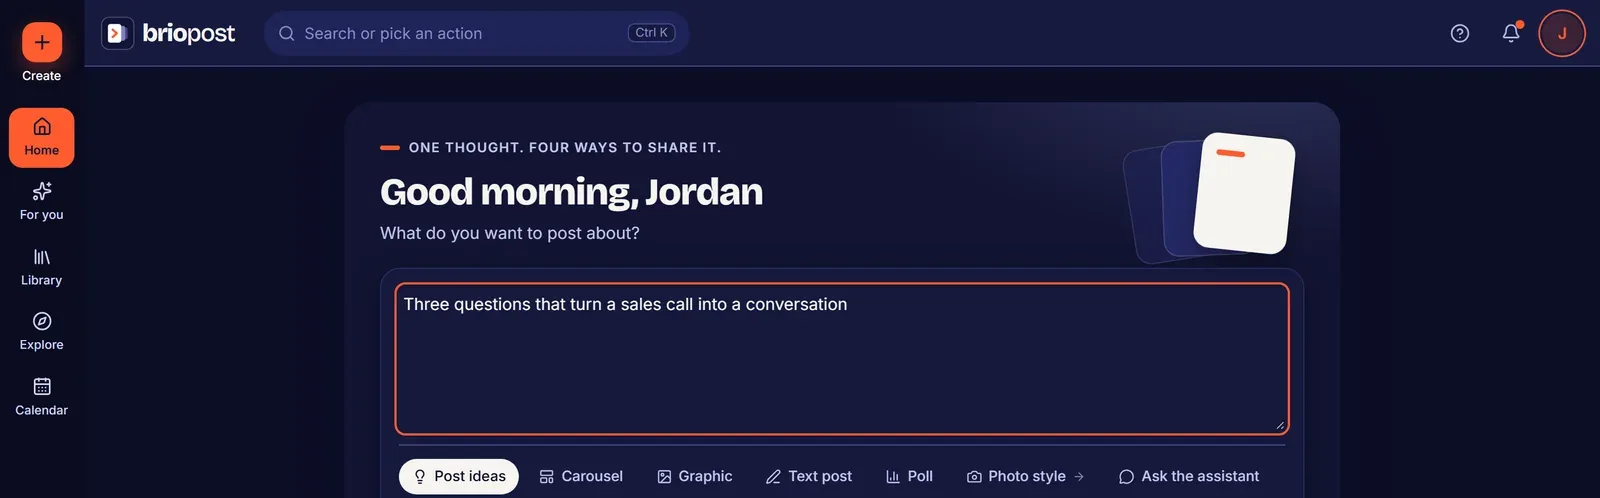
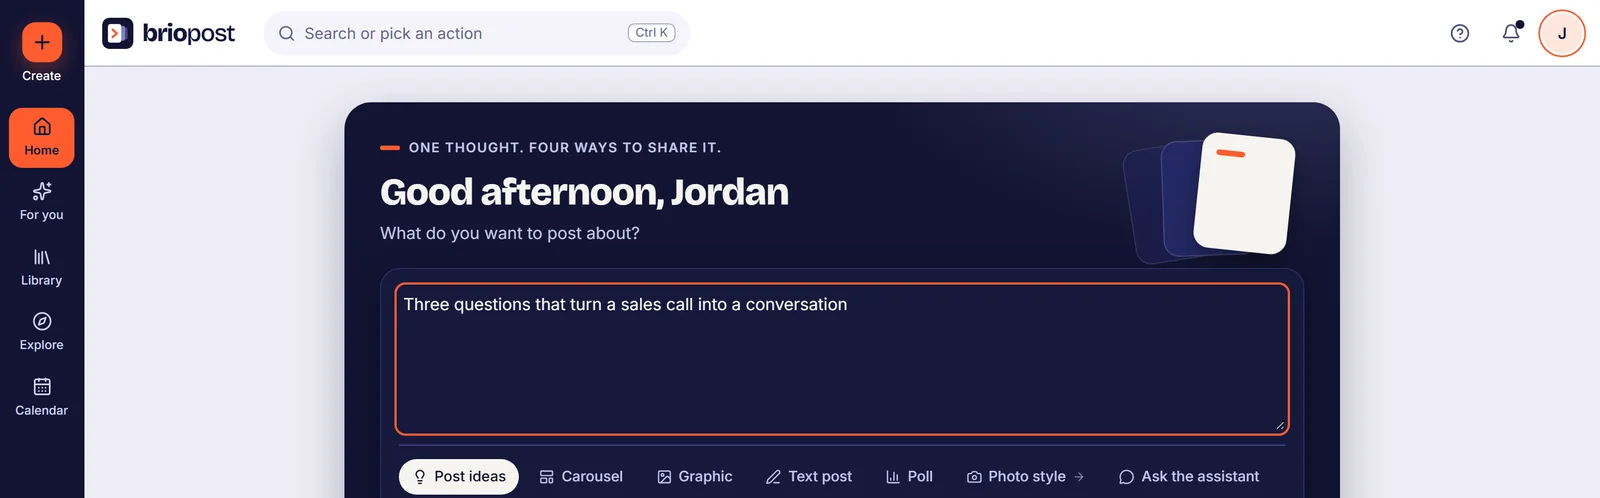
About: made by VocariAI; light studio screenshots; tighter waitlist box; visit counter; legal updates (#9)
* About: made by VocariAI; tighter waitlist box; own visit counter; legal pages updated

* Studio screenshots in the app's light look

---------

diff --git a/privacy/index.html b/privacy/index.html
@@ -1,7 +1,7 @@
-<!doctype html><html lang="en"><head><meta charset="utf-8"><meta name="viewport" content="width=device-width,initial-scale=1"><title>Privacy Policy — Briopost</title><meta name="description" content="How Briopost handles personal information."><link rel="canonical" href="https://briopost.com/privacy/"><meta name="theme-color" content="#121433"><link rel="icon" href="../assets/briopost-icon.svg"><link rel="apple-touch-icon" href="../assets/apple-touch-icon.png"><link rel="stylesheet" href="../assets/brand-tokens.css"><link rel="stylesheet" href="../assets/style.css"></head><body><a class="skip" href="#main">Skip to content</a><header class="header wrap"><a class="brand" href="../" aria-label="Briopost home"><img src="../assets/briopost-icon.svg" width="42" height="42" alt=""><span class="wordmark">brio<span>post</span></span></a><a class="status" href="../">&larr; Back to home</a></header><main id="main" class="wrap doc"><h1>Privacy Policy</h1><p>Last updated November 9, 2026</p><p><a class="dl" href="../legal/briopost-privacy.pdf">Download as PDF</a></p><p class="status">Briopost is preparing to open to customers. This document describes how Briopost works for customers from the day accounts open, and how this website works today.</p>
+<!doctype html><html lang="en"><head><meta charset="utf-8"><meta name="viewport" content="width=device-width,initial-scale=1"><title>Privacy Policy — Briopost</title><meta name="description" content="How Briopost handles personal information."><link rel="canonical" href="https://briopost.com/privacy/"><meta name="theme-color" content="#121433"><link rel="icon" href="../assets/briopost-icon.svg"><link rel="apple-touch-icon" href="../assets/apple-touch-icon.png"><link rel="stylesheet" href="../assets/brand-tokens.css"><link rel="stylesheet" href="../assets/style.css"><script src="../assets/visit.js" defer></script></head><body><a class="skip" href="#main">Skip to content</a><header class="header wrap"><a class="brand" href="../" aria-label="Briopost home"><img src="../assets/briopost-icon.svg" width="42" height="42" alt=""><span class="wordmark">brio<span>post</span></span></a><a class="status" href="../">&larr; Back to home</a></header><main id="main" class="wrap doc"><h1>Privacy Policy</h1><p>Last updated November 9, 2026</p><p><a class="dl" href="../legal/briopost-privacy.pdf">Download as PDF</a></p><p class="status">Briopost is preparing to open to customers. This document describes how Briopost works for customers from the day accounts open, and how this website works today.</p>
 
 <h2>1. Who we are</h2>
-<p>Briopost is a studio for planning, writing and designing LinkedIn posts: carousels, graphics, text posts and polls. Briopost is operated by Andrew Avery. You can reach us at <a href="mailto:info@briopost.com">info@briopost.com</a>.</p>
+<p>Briopost is a studio for planning, writing and designing LinkedIn posts: carousels, graphics, text posts and polls. Briopost is a product of VocariAI. You can reach us at <a href="mailto:info@briopost.com">info@briopost.com</a>.</p>
 
 <h2>2. What we collect</h2>
 <ul>
@@ -29,7 +29,7 @@
 <h2>7. Who processes information for us</h2>
 <table>
 <tr><th>Provider</th><th>What for</th></tr>
-<tr><td>Cloudflare</td><td>Hosting, database (including the waitlist), file storage, website security, receiving mail sent to Briopost addresses</td></tr>
+<tr><td>Cloudflare</td><td>Hosting, database (including the waitlist and website visit totals), file storage, website security, receiving mail sent to Briopost addresses</td></tr>
 <tr><td>Anthropic</td><td>AI writing and editing you request</td></tr>
 <tr><td>fal.ai</td><td>AI pictures you request</td></tr>
 <tr><td>Pexels</td><td>Searching stock photos, if you use that feature</td></tr>
@@ -41,7 +41,7 @@
 <p>If this list changes in a way that affects your information, we will update this page before the change takes effect.</p>
 
 <h2>8. This website</h2>
-<p>briopost.com has no accounts, no cookies, no analytics and no advertising. It has one form, the waitlist form, which asks for your first name, your email address and, if you choose, what best describes you. When you send it, those details go to Briopost's own database (hosted by Cloudflare); sections 2 and 3 explain what we do with them. The interactive examples run in your browser and send nothing. GitHub Pages hosts the site and may log visitors' IP addresses and request details to deliver and protect it, as described in GitHub's privacy statement.</p>
+<p>briopost.com has no accounts, no cookies and no advertising. It counts its own visits: for each page view we record the page, the website that linked to it (if any), the country the visit came from and the date, kept only as totals. We store no IP address and nothing that identifies you. It has one form, the waitlist form, which asks for your first name, your email address and, if you choose, what best describes you. When you send it, those details go to Briopost's own database (hosted by Cloudflare); sections 2 and 3 explain what we do with them. The interactive examples run in your browser and send nothing. GitHub Pages hosts the site and may log visitors' IP addresses and request details to deliver and protect it, as described in GitHub's privacy statement.</p>
 
 <h2>9. How long we keep it, and deleting it</h2>
 <p>We keep your content and account while your account is open. You can delete any item yourself. To close your account and have your information deleted, write to <a href="mailto:info@briopost.com">info@briopost.com</a> from the address on the account; we will delete it within 30 days, except for records we must keep by law. Backups are overwritten on their normal schedule.</p>

diff --git a/index.html b/index.html
@@ -30,6 +30,7 @@
 <link rel="stylesheet" href="assets/demo.css">
 <script src="assets/preview.js" defer></script>
 <script src="assets/waitlist.js" defer></script>
+<script src="assets/visit.js" defer></script>
 </head>
 <body>
 <a class="skip" href="#main">Skip to content</a>
@@ -91,7 +92,7 @@
   </div>
   <!-- Real app screenshots (assets/shots/). To add one, copy a <figure> line. -->
   <div class="shots">
-    <figure class="shot shot-wide panel"><img src="assets/shots/studio-home-1600.webp" srcset="assets/shots/studio-home-800.webp 800w, assets/shots/studio-home-1600.webp 1600w" sizes="(max-width: 800px) 100vw, 1170px" width="1600" height="498" loading="lazy" decoding="async" alt="The Briopost home screen in the dark Midnight Stage look, with the thought box filled in (top of the screen only): &quot;Three questions that turn a sales call into a conversation&quot;."><figcaption>Start with one thought. Briopost turns it into a carousel, graphic, text post or poll.</figcaption></figure>
+    <figure class="shot shot-wide panel"><img src="assets/shots/studio-home-1600.webp" srcset="assets/shots/studio-home-800.webp 800w, assets/shots/studio-home-1600.webp 1600w" sizes="(max-width: 800px) 100vw, 1170px" width="1600" height="498" loading="lazy" decoding="async" alt="The Briopost home screen in the light look, with the thought box filled in (top of the screen only): &quot;Three questions that turn a sales call into a conversation&quot;."><figcaption>Start with one thought. Briopost turns it into a carousel, graphic, text post or poll.</figcaption></figure>
     <figure class="shot panel"><img src="assets/shots/studio-editor-1600.webp" srcset="assets/shots/studio-editor-800.webp 800w, assets/shots/studio-editor-1600.webp 1600w" sizes="(max-width: 800px) 100vw, 580px" width="1600" height="1000" loading="lazy" decoding="async" alt="The Briopost carousel editor with a photo cover slide selected, showing an orange edge, and the next slide beside it."><figcaption>Edit every slide in a real editor, with the active slide outlined in orange.</figcaption></figure>
     <figure class="shot panel"><img src="assets/shots/studio-calendar-1600.webp" srcset="assets/shots/studio-calendar-800.webp 800w, assets/shots/studio-calendar-1600.webp 1600w" sizes="(max-width: 800px) 100vw, 580px" width="1600" height="1000" loading="lazy" decoding="async" alt="The Briopost calendar for November with several carousel and text posts planned across the month."><figcaption>Plan the month on a calendar. Nothing posts until you confirm it.</figcaption></figure>
   </div>
@@ -157,8 +158,8 @@
     <img class="maker-mark" src="assets/briopost-icon.svg" width="64" height="64" alt="">
     <div>
       <p class="eyebrow">About the maker</p>
-      <h2 id="maker-title">Made by Andrew Avery.</h2>
-      <p>Briopost is made by Andrew Avery. It is an independent studio, built to help people share their ideas on LinkedIn in their own voice. You can reach him at <span class="copyable">info@briopost.com</span>.</p>
+      <h2 id="maker-title">Made by VocariAI.</h2>
+      <p>Briopost is made by VocariAI, the AI partner for small businesses. VocariAI’s promise is “Your voice in the age of AI,” and Briopost puts that to work on LinkedIn: your ideas, shaped into posts that still sound like you. Learn more at <a href="https://vocariai.com" rel="noopener">vocariai.com</a>. Questions about Briopost? Write to <span class="copyable">info@briopost.com</span>.</p>
     </div>
   </div>
 </section>

diff --git a/terms/index.html b/terms/index.html
@@ -1,7 +1,7 @@
-<!doctype html><html lang="en"><head><meta charset="utf-8"><meta name="viewport" content="width=device-width,initial-scale=1"><title>Terms of Service — Briopost</title><meta name="description" content="The terms for using Briopost."><link rel="canonical" href="https://briopost.com/terms/"><meta name="theme-color" content="#121433"><link rel="icon" href="../assets/briopost-icon.svg"><link rel="apple-touch-icon" href="../assets/apple-touch-icon.png"><link rel="stylesheet" href="../assets/brand-tokens.css"><link rel="stylesheet" href="../assets/style.css"></head><body><a class="skip" href="#main">Skip to content</a><header class="header wrap"><a class="brand" href="../" aria-label="Briopost home"><img src="../assets/briopost-icon.svg" width="42" height="42" alt=""><span class="wordmark">brio<span>post</span></span></a><a class="status" href="../">&larr; Back to home</a></header><main id="main" class="wrap doc"><h1>Terms of Service</h1><p>Last updated November 9, 2026</p><p><a class="dl" href="../legal/briopost-terms.pdf">Download as PDF</a></p><p class="status">Briopost is preparing to open to customers. This document describes how Briopost works for customers from the day accounts open, and how this website works today.</p>
+<!doctype html><html lang="en"><head><meta charset="utf-8"><meta name="viewport" content="width=device-width,initial-scale=1"><title>Terms of Service — Briopost</title><meta name="description" content="The terms for using Briopost."><link rel="canonical" href="https://briopost.com/terms/"><meta name="theme-color" content="#121433"><link rel="icon" href="../assets/briopost-icon.svg"><link rel="apple-touch-icon" href="../assets/apple-touch-icon.png"><link rel="stylesheet" href="../assets/brand-tokens.css"><link rel="stylesheet" href="../assets/style.css"><script src="../assets/visit.js" defer></script></head><body><a class="skip" href="#main">Skip to content</a><header class="header wrap"><a class="brand" href="../" aria-label="Briopost home"><img src="../assets/briopost-icon.svg" width="42" height="42" alt=""><span class="wordmark">brio<span>post</span></span></a><a class="status" href="../">&larr; Back to home</a></header><main id="main" class="wrap doc"><h1>Terms of Service</h1><p>Last updated November 9, 2026</p><p><a class="dl" href="../legal/briopost-terms.pdf">Download as PDF</a></p><p class="status">Briopost is preparing to open to customers. This document describes how Briopost works for customers from the day accounts open, and how this website works today.</p>
 
 <h2>1. Agreement</h2>
-<p>These terms are between you and Briopost (operated by Andrew Avery). By creating an account or using Briopost you agree to them. If you use Briopost for a company, you confirm you may accept these terms for it.</p>
+<p>These terms are between you and Briopost, a product of VocariAI. By creating an account or using Briopost you agree to them. If you use Briopost for a company, you confirm you may accept these terms for it.</p>
 
 <h2>2. Your account</h2>
 <p>You must be 18 or over and give accurate details. Keep your sign-in private and tell us at once if you think someone else has used it. You are responsible for what happens under your account.</p>

diff --git a/contact/index.html b/contact/index.html
@@ -1,7 +1,10 @@
-<!doctype html><html lang="en"><head><meta charset="utf-8"><meta name="viewport" content="width=device-width,initial-scale=1"><title>Contact and Support — Briopost</title><meta name="description" content="How to reach Briopost."><link rel="canonical" href="https://briopost.com/contact/"><meta name="theme-color" content="#121433"><link rel="icon" href="../assets/briopost-icon.svg"><link rel="apple-touch-icon" href="../assets/apple-touch-icon.png"><link rel="stylesheet" href="../assets/brand-tokens.css"><link rel="stylesheet" href="../assets/style.css"></head><body><a class="skip" href="#main">Skip to content</a><header class="header wrap"><a class="brand" href="../" aria-label="Briopost home"><img src="../assets/briopost-icon.svg" width="42" height="42" alt=""><span class="wordmark">brio<span>post</span></span></a><a class="status" href="../">&larr; Back to home</a></header><main id="main" class="wrap doc"><h1>Contact and Support</h1><p>Last updated November 9, 2026</p><p><a class="dl" href="../legal/briopost-contact.pdf">Download as PDF</a></p><p class="status">Briopost is preparing to open to customers. This document describes how Briopost works for customers from the day accounts open, and how this website works today.</p>
+<!doctype html><html lang="en"><head><meta charset="utf-8"><meta name="viewport" content="width=device-width,initial-scale=1"><title>Contact and Support — Briopost</title><meta name="description" content="How to reach Briopost."><link rel="canonical" href="https://briopost.com/contact/"><meta name="theme-color" content="#121433"><link rel="icon" href="../assets/briopost-icon.svg"><link rel="apple-touch-icon" href="../assets/apple-touch-icon.png"><link rel="stylesheet" href="../assets/brand-tokens.css"><link rel="stylesheet" href="../assets/style.css"><script src="../assets/visit.js" defer></script></head><body><a class="skip" href="#main">Skip to content</a><header class="header wrap"><a class="brand" href="../" aria-label="Briopost home"><img src="../assets/briopost-icon.svg" width="42" height="42" alt=""><span class="wordmark">brio<span>post</span></span></a><a class="status" href="../">&larr; Back to home</a></header><main id="main" class="wrap doc"><h1>Contact and Support</h1><p>Last updated November 9, 2026</p><p><a class="dl" href="../legal/briopost-contact.pdf">Download as PDF</a></p><p class="status">Briopost is preparing to open to customers. This document describes how Briopost works for customers from the day accounts open, and how this website works today.</p>
 
 <h2>Contact</h2>
 <p>Email <a href="mailto:info@briopost.com">info@briopost.com</a> for questions, support, privacy requests (what we hold, a copy, correction or deletion), and to report a problem with a Briopost email.</p>
+
+<h2>Mailing address</h2>
+<p>Briopost, 12220 North MacArthur Boulevard, Suite F-19, Oklahoma City, OK 73162</p>
 
 <h2>What to include</h2>
 <p>The email address on your account, what you were trying to do, and what happened. Please never send your password.</p>

diff --git a/email-policy/index.html b/email-policy/index.html
@@ -1,4 +1,4 @@
-<!doctype html><html lang="en"><head><meta charset="utf-8"><meta name="viewport" content="width=device-width,initial-scale=1"><title>Email Policy — Briopost</title><meta name="description" content="What email Briopost sends, to whom, and how to stop it."><link rel="canonical" href="https://briopost.com/email-policy/"><meta name="theme-color" content="#121433"><link rel="icon" href="../assets/briopost-icon.svg"><link rel="apple-touch-icon" href="../assets/apple-touch-icon.png"><link rel="stylesheet" href="../assets/brand-tokens.css"><link rel="stylesheet" href="../assets/style.css"></head><body><a class="skip" href="#main">Skip to content</a><header class="header wrap"><a class="brand" href="../" aria-label="Briopost home"><img src="../assets/briopost-icon.svg" width="42" height="42" alt=""><span class="wordmark">brio<span>post</span></span></a><a class="status" href="../">&larr; Back to home</a></header><main id="main" class="wrap doc"><h1>Email Policy</h1><p>Last updated November 9, 2026</p><p><a class="dl" href="../legal/briopost-email-policy.pdf">Download as PDF</a></p><p class="status">Briopost is preparing to open to customers. This document describes how Briopost works for customers from the day accounts open, and how this website works today.</p>
+<!doctype html><html lang="en"><head><meta charset="utf-8"><meta name="viewport" content="width=device-width,initial-scale=1"><title>Email Policy — Briopost</title><meta name="description" content="What email Briopost sends, to whom, and how to stop it."><link rel="canonical" href="https://briopost.com/email-policy/"><meta name="theme-color" content="#121433"><link rel="icon" href="../assets/briopost-icon.svg"><link rel="apple-touch-icon" href="../assets/apple-touch-icon.png"><link rel="stylesheet" href="../assets/brand-tokens.css"><link rel="stylesheet" href="../assets/style.css"><script src="../assets/visit.js" defer></script></head><body><a class="skip" href="#main">Skip to content</a><header class="header wrap"><a class="brand" href="../" aria-label="Briopost home"><img src="../assets/briopost-icon.svg" width="42" height="42" alt=""><span class="wordmark">brio<span>post</span></span></a><a class="status" href="../">&larr; Back to home</a></header><main id="main" class="wrap doc"><h1>Email Policy</h1><p>Last updated November 9, 2026</p><p><a class="dl" href="../legal/briopost-email-policy.pdf">Download as PDF</a></p><p class="status">Briopost is preparing to open to customers. This document describes how Briopost works for customers from the day accounts open, and how this website works today.</p>
 
 <h2>1. What we send</h2>
 <p>Briopost sends <b>service email</b> only, from planner@briopost.com, hello@briopost.com and info@briopost.com:</p>

diff --git a/assets/visit.js b/assets/visit.js
@@ -1,0 +1,24 @@
+/* Briopost visit counter: one anonymous count per page view, sent to Briopost's own server.
+   Sends only the page path, the referring site's host name and an optional ?ref= tag.
+   No cookies, no storage, no identifiers. Counts only on the live site. */
+(function () {
+  try {
+    var host = location.hostname;
+    if (host !== 'briopost.com' && host !== 'www.briopost.com') return;
+    var ref = '';
+    try {
+      if (document.referrer) {
+        var h = new URL(document.referrer).hostname;
+        if (h && h !== host) ref = h;
+      }
+    } catch (e) { /* ignore a bad referrer */ }
+    var source = (new URLSearchParams(location.search).get('ref') || '').replace(/[^\w.-]/g, '').slice(0, 60);
+    var body = JSON.stringify({ path: location.pathname.slice(0, 120), ref: ref.slice(0, 100), source: source });
+    var url = 'https://app.briopost.com/api/waitlist/visit';
+    if (navigator.sendBeacon) {
+      navigator.sendBeacon(url, new Blob([body], { type: 'text/plain' }));
+    } else if (window.fetch) {
+      fetch(url, { method: 'POST', body: body, keepalive: true, mode: 'cors', headers: { 'Content-Type': 'text/plain' } }).catch(function () {});
+    }
+  } catch (e) { /* counting must never break the page */ }
+})();

diff --git a/assets/style.css b/assets/style.css
@@ -167,7 +167,8 @@ p{line-height:1.75}
 .hp{position:absolute!important;left:-10000px;top:auto;width:1px;height:1px;overflow:hidden}
 .sr-only{position:absolute!important;width:1px;height:1px;padding:0;margin:-1px;overflow:hidden;clip:rect(0 0 0 0);white-space:nowrap;border:0}
 .wl-submit{width:100%}
-.form-msg{min-height:3.2em;margin-top:16px;font-size:15px;line-height:1.6;color:var(--muted)}
+.form-msg{margin-top:16px;font-size:15px;line-height:1.6;color:var(--muted)}
+.form-msg:empty{display:none}
 .form-msg.is-error{color:var(--error)}
 .form-msg.is-ok{color:var(--ok)}
 .notice{display:flex;gap:12px;align-items:flex-start;padding:16px 18px;border-radius:12px;background:var(--panel-2);border:1px solid var(--line);color:var(--muted);font-size:15px;line-height:1.6;margin-bottom:22px}

diff --git a/assets/brand-tokens.css b/assets/brand-tokens.css
@@ -1,6 +1,6 @@
 /* Briopost brand tokens: the SINGLE SOURCE for the brand palette and fonts.
-   Canonical copy: this file (AndrewAvery7/briopost, shared/brand-tokens.css).
-   Copy: AndrewAvery7/briopost-website, assets/brand-tokens.css. Never edit the copy by hand; change this file, then run
+   Canonical copy: this file (the Briopost app repository, shared/brand-tokens.css).
+   Copy: the briopost-website repository, assets/brand-tokens.css. Never edit the copy by hand; change this file, then run
    `npm run brand:sync -- <path to website checkout>` (and add `--check` to confirm they match). */
 :root {
   --brand-midnight: #121433;

diff --git a/waitlist/confirm/index.html b/waitlist/confirm/index.html
@@ -27,5 +27,6 @@
   </div>
 </main>
 <div class="footer-wrap"><footer class="footer wrap"><span>© 2026 Briopost · Post with brio.</span><span><a href="../../privacy/">Privacy</a> · <a href="../../terms/">Terms</a> · <a href="../../email-policy/">Email</a> · <a href="../../contact/">Contact</a></span><span>Independent of LinkedIn. Not affiliated with or endorsed by LinkedIn.</span></footer></div>
+<script src="../../assets/visit.js" defer></script>
 </body>
 </html>

diff --git a/waitlist/unsubscribe/index.html b/waitlist/unsubscribe/index.html
@@ -27,5 +27,6 @@
   </div>
 </main>
 <div class="footer-wrap"><footer class="footer wrap"><span>© 2026 Briopost · Post with brio.</span><span><a href="../../privacy/">Privacy</a> · <a href="../../terms/">Terms</a> · <a href="../../email-policy/">Email</a> · <a href="../../contact/">Contact</a></span><span>Independent of LinkedIn. Not affiliated with or endorsed by LinkedIn.</span></footer></div>
+<script src="../../assets/visit.js" defer></script>
 </body>
 </html>
